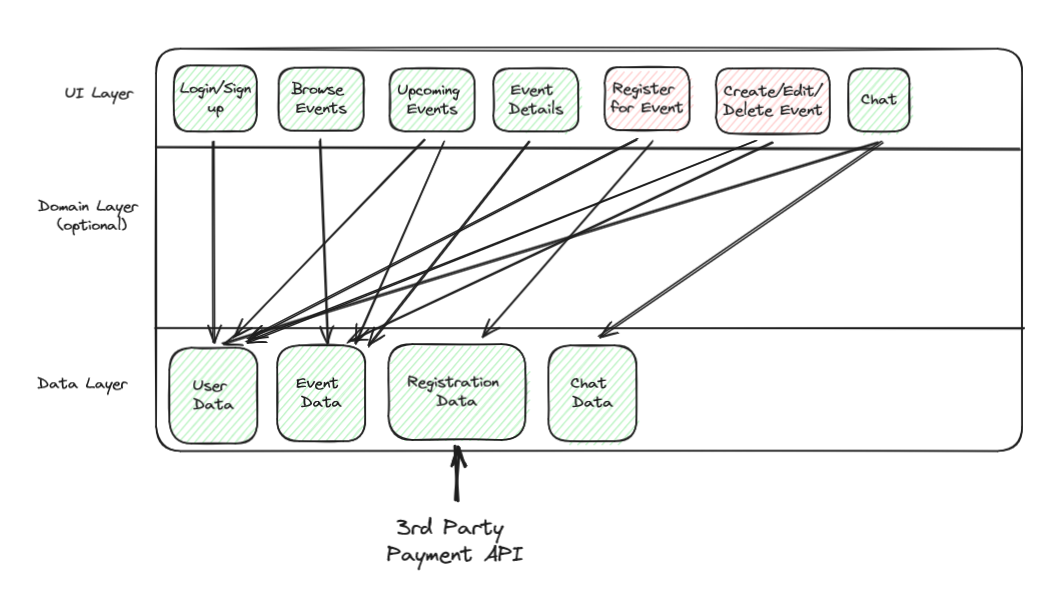
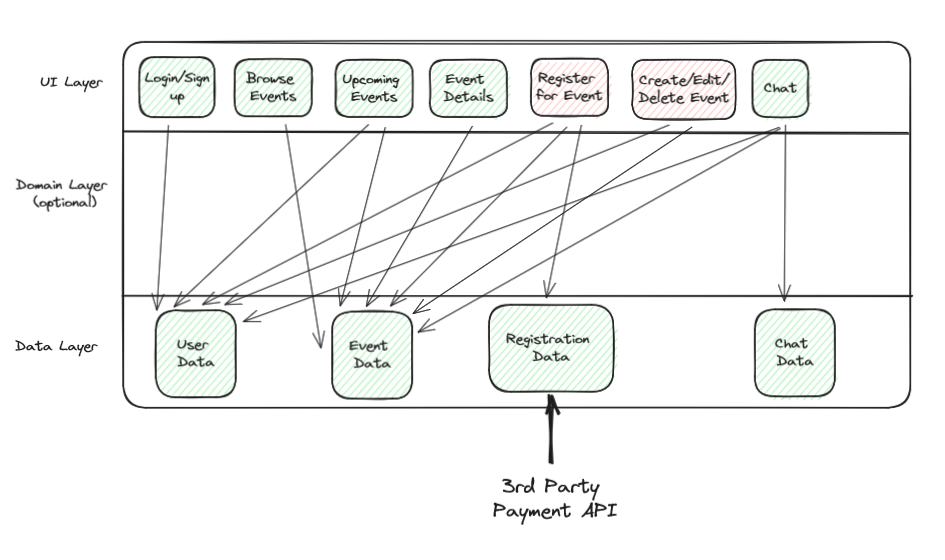
Format the diagram to be more readable

diff --git a/README.md b/README.md
@@ -9,5 +9,5 @@ TODO: Add detailed app description and demo
 
 ## Architecture Diagram
 ![architecture diagram](images/architecture-diagram.png)
-[Image Link](https://excalidraw.com/#json=M8PuUm9rKRgSVUl0vHevS,zAGPUG20M7bmx8at68aOMw)  
+[Image Link](https://excalidraw.com/#json=1c_DrTFZCSGprCvJNBYHn,B0sXrISCY8YdKgiTqy9xDA)
 _revised 9/4/2024_
